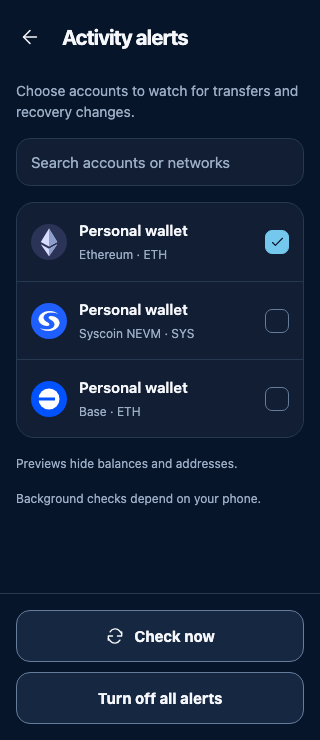
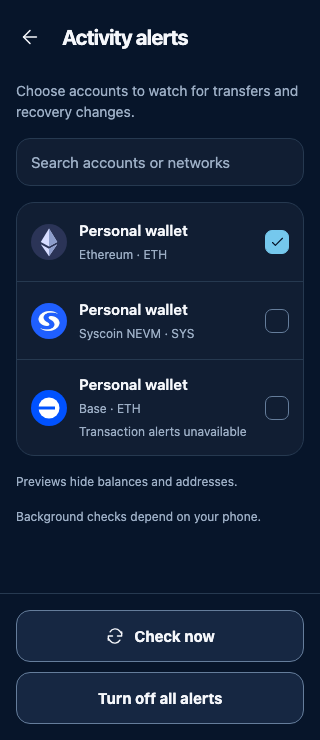
docs(mobile): show saved pending and alert coverage states

diff --git a/apps/mobile/design/reviews/2026-11-10/README.md b/apps/mobile/design/reviews/2026-11-10/README.md
@@ -1688,6 +1688,8 @@ Source: `a7c370a22656574043007ccc8d15fe2af342351a` · 320px.
 
 
 <!-- selected-account-overview-updates:start -->
+Notification states were refreshed at `20e9ad763ffa74abb620dc8ee6da30b3242d671d`; see [coverage and Saved pending capture provenance](saved-pending-updates/manifest.json). Other earlier frames retain their recorded source revisions.
+
 
 ## Selected account, Send, Activity and alert updates
 
@@ -1876,3 +1878,83 @@ Search Ethereum → No permission request until enabling a row.
 </details>
 
 <!-- selected-account-overview-updates:end -->
+
+<!-- saved-pending-updates:start -->
+
+## Saved pending and notification coverage
+
+Source: `20e9ad763ffa74abb620dc8ee6da30b3242d671d`. [Per-frame provenance](saved-pending-updates/manifest.json). Saved pending pages the existing local journal for one selected-account network. A concrete Activity filter enters directly; All networks first chooses a visible network. Detail and inventory Back return to the prior aggregate scroll position.
+
+<details>
+<summary>Saved pending · choose a network — 390px</summary>
+
+![Saved pending · choose a network](saved-pending-updates/saved-network-picker-390.png)
+
+Activity options → Saved pending → Only the selected account and visible networks.
+
+</details>
+
+<details>
+<summary>Saved pending · Base inventory — 390px</summary>
+
+![Saved pending · Base inventory](saved-pending-updates/saved-inventory-390.png)
+
+Choose Base → Older local journal row outside recent history → Existing pagination and detail actions.
+
+</details>
+
+<details>
+<summary>Activity alerts · supported coverage — 390px</summary>
+
+![Activity alerts · supported coverage](saved-pending-updates/notifications-all-390.png)
+
+Explicit enrollment only → Unsupported transaction networks labelled and disabled.
+
+</details>
+
+<details>
+<summary>Activity alerts · filtered Ethereum — 390px</summary>
+
+![Activity alerts · filtered Ethereum](saved-pending-updates/notifications-filtered-390.png)
+
+Search Ethereum → Existing enrollment remains removable.
+
+</details>
+
+<details>
+<summary>Saved pending · choose a network — 320px</summary>
+
+![Saved pending · choose a network](saved-pending-updates/saved-network-picker-320.png)
+
+Activity options → Saved pending → Only the selected account and visible networks.
+
+</details>
+
+<details>
+<summary>Saved pending · Base inventory — 320px</summary>
+
+![Saved pending · Base inventory](saved-pending-updates/saved-inventory-320.png)
+
+Choose Base → Older local journal row outside recent history → Existing pagination and detail actions.
+
+</details>
+
+<details>
+<summary>Activity alerts · supported coverage — 320px</summary>
+
+![Activity alerts · supported coverage](saved-pending-updates/notifications-all-320.png)
+
+Explicit enrollment only → Unsupported transaction networks labelled and disabled.
+
+</details>
+
+<details>
+<summary>Activity alerts · filtered Ethereum — 320px</summary>
+
+![Activity alerts · filtered Ethereum](saved-pending-updates/notifications-filtered-320.png)
+
+Search Ethereum → Existing enrollment remains removable.
+
+</details>
+
+<!-- saved-pending-updates:end -->
